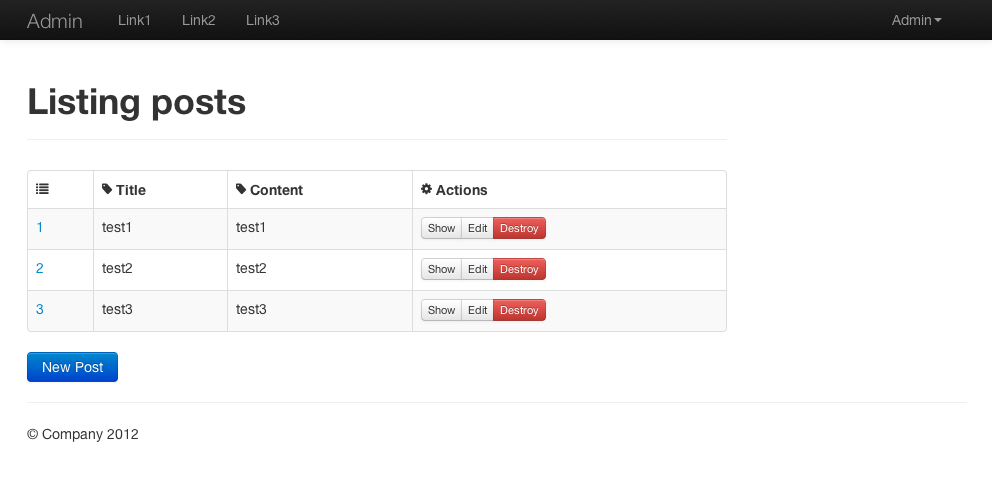
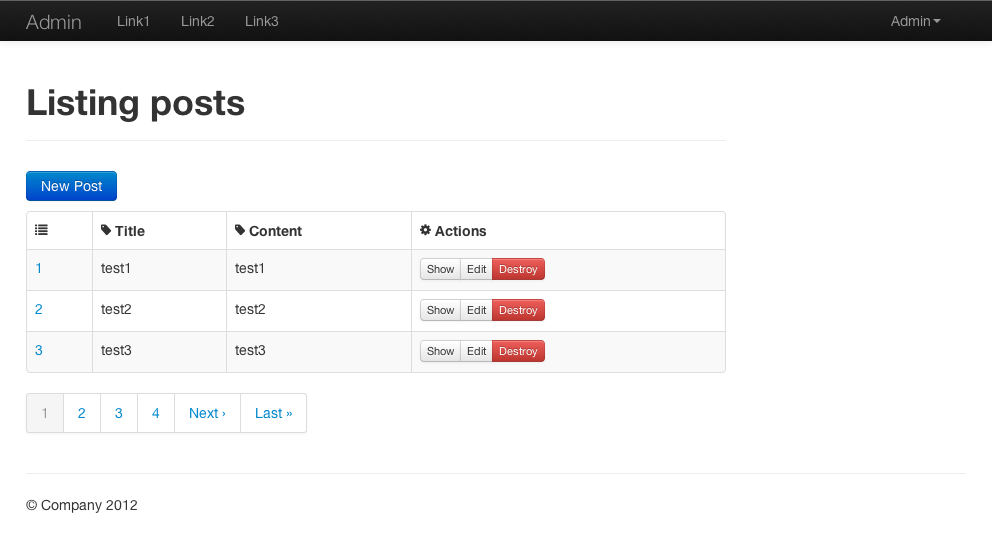
add kaminari pagination

diff --git a/lib/templates/rails/scaffold_controller/controller.rb b/lib/templates/rails/scaffold_controller/controller.rb
@@ -1,0 +1,89 @@
+<% if namespaced? -%>
+require_dependency "<%= namespaced_file_path %>/application_controller"
+
+<% end -%>
+<% module_namespacing do -%>
+class <%= controller_class_name %>Controller < ApplicationController
+  # GET <%= route_url %>
+  # GET <%= route_url %>.json
+  def index
+    @<%= plural_table_name %> = <%= class_name -%>.page(params[:page])
+
+    respond_to do |format|
+      format.html # index.html.erb
+      format.json { render <%= key_value :json, "@#{plural_table_name}" %> }
+    end
+  end
+
+  # GET <%= route_url %>/1
+  # GET <%= route_url %>/1.json
+  def show
+    @<%= singular_table_name %> = <%= orm_class.find(class_name, "params[:id]") %>
+
+    respond_to do |format|
+      format.html # show.html.erb
+      format.json { render <%= key_value :json, "@#{singular_table_name}" %> }
+    end
+  end
+
+  # GET <%= route_url %>/new
+  # GET <%= route_url %>/new.json
+  def new
+    @<%= singular_table_name %> = <%= orm_class.build(class_name) %>
+
+    respond_to do |format|
+      format.html # new.html.erb
+      format.json { render <%= key_value :json, "@#{singular_table_name}" %> }
+    end
+  end
+
+  # GET <%= route_url %>/1/edit
+  def edit
+    @<%= singular_table_name %> = <%= orm_class.find(class_name, "params[:id]") %>
+  end
+
+  # POST <%= route_url %>
+  # POST <%= route_url %>.json
+  def create
+    @<%= singular_table_name %> = <%= orm_class.build(class_name, "params[:#{singular_table_name}]") %>
+
+    respond_to do |format|
+      if @<%= orm_instance.save %>
+        format.html { redirect_to @<%= singular_table_name %>, <%= key_value :notice, "'#{human_name} was successfully created.'" %> }
+        format.json { render <%= key_value :json, "@#{singular_table_name}" %>, <%= key_value :status, ':created' %>, <%= key_value :location, "@#{singular_table_name}" %> }
+      else
+        format.html { render <%= key_value :action, '"new"' %> }
+        format.json { render <%= key_value :json, "@#{orm_instance.errors}" %>, <%= key_value :status, ':unprocessable_entity' %> }
+      end
+    end
+  end
+
+  # PUT <%= route_url %>/1
+  # PUT <%= route_url %>/1.json
+  def update
+    @<%= singular_table_name %> = <%= orm_class.find(class_name, "params[:id]") %>
+
+    respond_to do |format|
+      if @<%= orm_instance.update_attributes("params[:#{singular_table_name}]") %>
+        format.html { redirect_to @<%= singular_table_name %>, <%= key_value :notice, "'#{human_name} was successfully updated.'" %> }
+        format.json { head :no_content }
+      else
+        format.html { render <%= key_value :action, '"edit"' %> }
+        format.json { render <%= key_value :json, "@#{orm_instance.errors}" %>, <%= key_value :status, ':unprocessable_entity' %> }
+      end
+    end
+  end
+
+  # DELETE <%= route_url %>/1
+  # DELETE <%= route_url %>/1.json
+  def destroy
+    @<%= singular_table_name %> = <%= orm_class.find(class_name, "params[:id]") %>
+    @<%= orm_instance.destroy %>
+
+    respond_to do |format|
+      format.html { redirect_to <%= index_helper %>_url }
+      format.json { head :no_content }
+    end
+  end
+end
+<% end -%>

diff --git a/admin.rb b/admin.rb
@@ -127,6 +127,20 @@ run 'cd lib/templates/erb/scaffold; wget -N https://raw.github.com/pct/rails3-te
 run 'cd lib/templates/erb/scaffold; wget -N https://raw.github.com/pct/rails3-template/master/lib/templates/erb/scaffold/index.html.erb'
 run 'cd lib/templates/erb/scaffold; wget -N https://raw.github.com/pct/rails3-template/master/lib/templates/erb/scaffold/show.html.erb'
 
+# fetch scaffold controller with kaminari
+run 'mkdir -p lib/templates/rails/scaffold_controller'
+run 'cd lib/templates/rails/scaffold_controller; wget -N https://raw.github.com/pct/rails3-template/master/lib/templates/rails/scaffold_controller/controller.rb'
+
+# fetch kaminari views
+run 'mkdir -p app/views/kaminari'
+run 'cd app/views/kaminari; wget -N https://raw.github.com/pct/rails3-template/master/replace/kaminari/_first_page.html.erb'
+run 'cd app/views/kaminari; wget -N https://raw.github.com/pct/rails3-template/master/replace/kaminari/_gap.html.erb'
+run 'cd app/views/kaminari; wget -N https://raw.github.com/pct/rails3-template/master/replace/kaminari/_last_page.html.erb'
+run 'cd app/views/kaminari; wget -N https://raw.github.com/pct/rails3-template/master/replace/kaminari/_next_page.html.erb'
+run 'cd app/views/kaminari; wget -N https://raw.github.com/pct/rails3-template/master/replace/kaminari/_page.html.erb'
+run 'cd app/views/kaminari; wget -N https://raw.github.com/pct/rails3-template/master/replace/kaminari/_paginator.html.erb'
+run 'cd app/views/kaminari; wget -N https://raw.github.com/pct/rails3-template/master/replace/kaminari/_prev_page.html.erb'
+
 # git ignore
 append_file '.gitignore', <<-CODE
 *~

diff --git a/README.md b/README.md
@@ -4,15 +4,15 @@ pct's rails3 template, modified from ihower's and other resources.
 
 ## Usage:
 
-frontend template:
+Frontend template:
 
     $ rails new YourAppName -m https://raw.github.com/pct/rails3-template/master/init.rb
 
-backend template:
+Backend template:
 
     $ rails new YourAppName -m https://raw.github.com/pct/rails3-template/master/admin.rb
     
-    then you could just use rails scaffold to gen your CRUD files:
+then you could just use rails scaffold to gen your CRUD files:
 
     $ rails g scaffold post title:string content:text
 
@@ -37,4 +37,10 @@ backend template:
 1. admin with devise and cancan
 2. admin add CRUD log
 3. admin change email and password
-4. admin pagination
+
+## Reference
+
+1. https://github.com/gabetax/twitter-bootstrap-kaminari-views
+2. https://github.com/ihower/rails3-app-template
+3. http://twitter.github.com/bootstrap/
+4. https://github.com/plataformatec/devise
